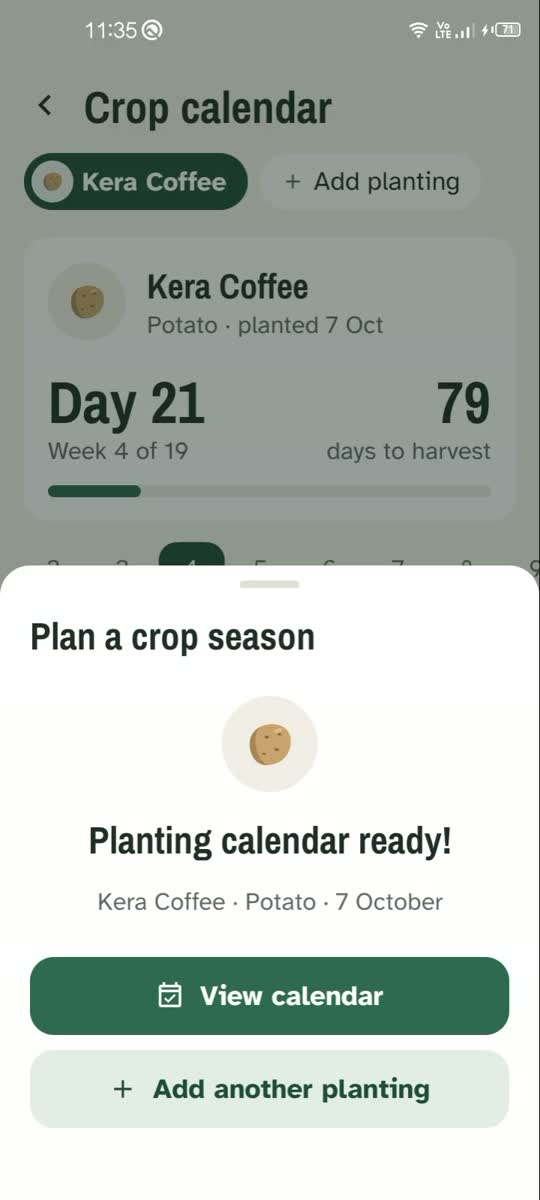
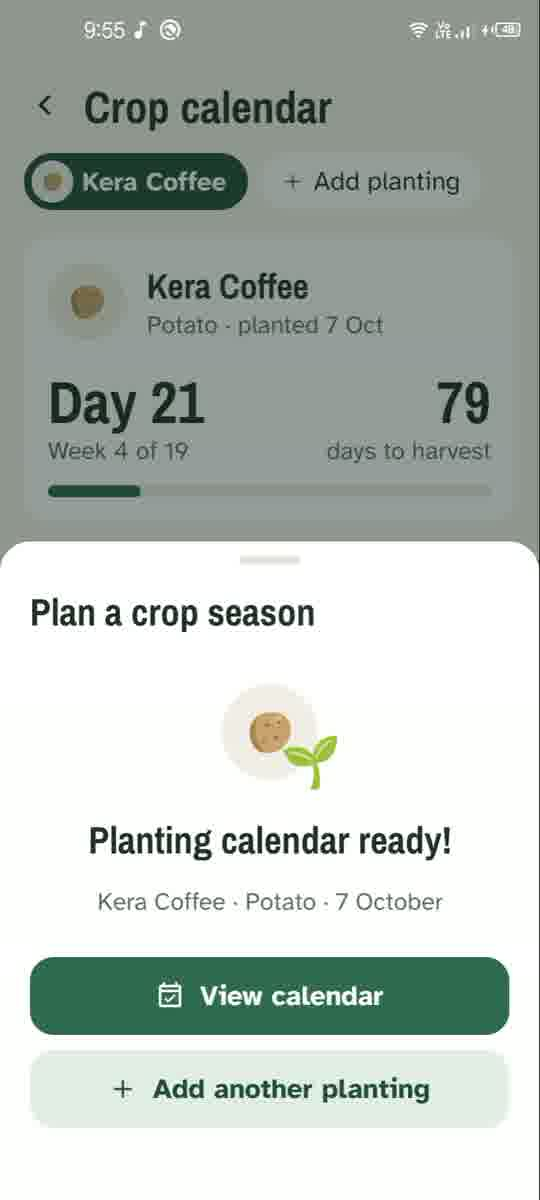
Calendar: planting is not 'Missed', warn before replacing a crop, a moment of growth
Farmer-first pass, checked on the TECNO:
- A farmer who entered 'planted 3 weeks ago' saw the planting task itself in red as Missed. A planting-day task is now done once that day has come: the date the farmer entered is the planting.
- A field holds one crop, and choosing Kera Coffee for potatoes silently replaced 'Coffee'. Step 3 now says 'This replaces Coffee in Kera Coffee.'
- 'Planting calendar ready' now has motion: the crop springs in and a Noto seedling sprouts beside it (reduce motion: still picture).
Kera Coffee restored to Coffee, 2025-10-21 after the test. New string in lib/sw.ts, flagged.

diff --git a/app/calendar.tsx b/app/calendar.tsx
@@ -6,7 +6,9 @@ import React, { useCallback, useEffect, useMemo, useRef, useState } from 'react'
 import { Alert, RefreshControl, ScrollView, StyleSheet, TouchableOpacity, View } from 'react-native';
 import { router, useFocusEffect, useLocalSearchParams } from 'expo-router';
 import { Btn, Chip, CropIcon, Dot, Empty, ErrorNote, Header, Icon, Loading, ProgressBar, SectionLabel, Sheet, Text, tick } from '../components/ui';
+import Animated, { ZoomIn } from 'react-native-reanimated';
 import { TaskRow } from '../components/TaskRow';
+import { NotoEmoji } from '../components/NotoEmoji';
 import { DateField } from '../components/DateField';
 import { listFarms, updateFarm, type Farm } from '../lib/data';
 import { calendarFor, daysSince, fieldTasks, loadTicks, parseDate, saveTicks, toIsoDate, type FieldTask } from '../lib/calendar';
@@ -411,6 +413,16 @@ export default function CalendarScreen() {
               <DateField value={selectedDate} onChange={(iso) => iso && setSelectedDate(iso)} />
             </View>
 
+            {/* A field holds one crop: say so before a planting replaces what is there (e.g. coffee). */}
+            {selectedField?.crop && selectedField.crop.toLowerCase() !== selectedCrop.toLowerCase() ? (
+              <View style={st.replaceNote}>
+                <Icon name="swap-horizontal" size={20} color={C.accentDark} />
+                <Text raw style={[st.small, { flex: 1, color: C.text }]}>
+                  {t('This replaces {old} in {field}.', { old: cropName(selectedField.crop, lang), field: selectedField.name })}
+                </Text>
+              </View>
+            ) : null}
+
             <Btn
               label={t('Confirm planting')}
               icon="check"
@@ -421,7 +433,13 @@ export default function CalendarScreen() {
           </View>
         ) : (
           <View style={{ alignItems: 'center', gap: 14, paddingVertical: 12 }}>
-            <CropIcon crop={selectedCrop} size={64} />
+            {/* the season starts: the crop pops in and a seedling sprouts beside it */}
+            <Animated.View entering={ZoomIn.springify().damping(12)} style={{ width: 96, height: 80, alignItems: 'center', justifyContent: 'center' }}>
+              <CropIcon crop={selectedCrop} size={64} />
+              <View style={{ position: 'absolute', right: 0, bottom: 0 }}>
+                <NotoEmoji name="plant" size={40} />
+              </View>
+            </Animated.View>
             <Text style={{ fontSize: 22, fontFamily: FONT.display, color: C.text, textAlign: 'center' }}>
               {t('Planting calendar ready!')}
             </Text>
@@ -479,6 +497,7 @@ const st = StyleSheet.create({
   wizardRowTitle: { fontSize: 16, fontFamily: FONT.bodyBold, color: C.text },
   cropChoice: { width: '30%', minWidth: 90, flexGrow: 1, alignItems: 'center', gap: 6, paddingVertical: 12, paddingHorizontal: 8, borderRadius: 14, backgroundColor: C.bg, borderWidth: 1.5, borderColor: 'transparent' },
   cropChoiceSelected: { borderColor: C.primary, backgroundColor: C.primaryTint },
+  replaceNote: { flexDirection: 'row', alignItems: 'center', gap: 10, padding: 12, borderRadius: 12, backgroundColor: C.accentTint },
   dateChoice: { width: '47%', flexGrow: 1, minHeight: 56, alignItems: 'center', justifyContent: 'center', paddingHorizontal: 10, borderRadius: 14, backgroundColor: C.bg, borderWidth: 1.5, borderColor: 'transparent' },
   cropChoiceText: { fontSize: 14, color: C.textMid, textAlign: 'center' },
 });

diff --git a/lib/calendar.ts b/lib/calendar.ts
@@ -221,7 +221,10 @@ export function fieldTasks(farm: Farm, ticks: string[], lang: Lang = getLang(), 
   return cal.tasks.map((task) => {
     const startDate = new Date(planted.getTime() + task.start * DAY);
     const endDate = new Date(planted.getTime() + task.end * DAY);
-    const ticked = ticks.includes(task.id);
+    // A planting-day task is the planting the farmer recorded with this date: once that day has
+    // come it is done, not "missed" (a farmer who entered "planted 3 weeks ago" saw it in red).
+    const planting = task.end <= 0 && now >= startDate.getTime();
+    const ticked = ticks.includes(task.id) || planting;
     let status: TaskStatus;
     if (ticked) status = 'done';
     else if (now > endDate.getTime()) status = 'missed';
